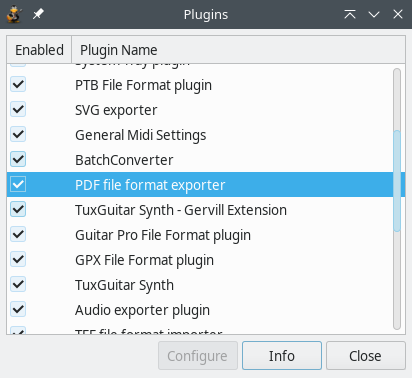
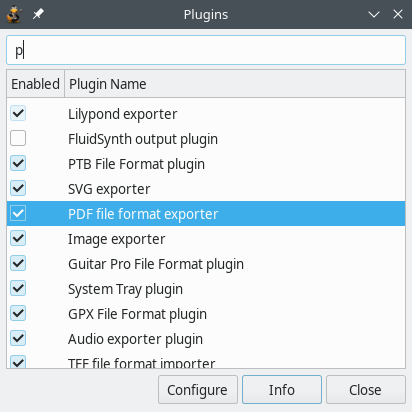
Update help and CHANGES

Changed region(s): [[0.0, 0.0, 1.0, 0.9894], [0.932, 0.2328, 0.9903, 0.2619], [0.0, 0.1455, 0.0291, 0.1746]]

diff --git a/desktop/TuxGuitar/share/help/detail_file_edit.html b/desktop/TuxGuitar/share/help/detail_file_edit.html
@@ -66,10 +66,10 @@
       <li><strong>File → Close</strong>: Closes the current tab.</li>
       <li><strong>File → Close Others</strong>: Closes all but the file in the active tab.</li>
       <li><strong>File → Close All</strong>: Closes all tabs and open a new file from the default or your custom template.</li>
-      <li><strong>File → Save</strong> (<strong>Ctrl+S</strong>): Saves the file in the active tab. If the song has never been saved yet, the <strong>Save As</strong> dialog opens.</li>
-      <li><strong>File → Save As</strong> (<strong>F12</strong>): Saves the file in the active tab to a new file.</li>
-      <li><strong>File → Import</strong>: Here you can import Tef or MIDI files into TuxGuitar.</li>
-      <li><strong>File → Export</strong>: Songs can be exported as SVG, Audio (WAF and others), MIDI, Lilypond, MusicXML, PDF, ASCII or old TuxGuitar formats.</li>
+      <li><strong>File → Save</strong> (<strong>Ctrl+S</strong>): Saves the file in the active tab in the latest TuxGuitar format. If the song has never been saved yet, the <strong>Save As</strong> dialog opens.</li>
+      <li><strong>File → Save As</strong> (<strong>F12</strong>): Saves the file in the active tab to a new file in the latest TuxGuitar format.</li>
+      <li><strong>File → Import</strong>: Here you can import MIDI files into TuxGuitar.</li>
+      <li><strong>File → Export</strong>: Songs can be exported as SVG, Audio (WAF and others), MIDI, Lilypond, MusicXML, PDF, ASCII, Guitar Pro or old TuxGuitar formats.</li>
       <li><strong>File → Print Preview</strong>: Opens a new window where you can see how the file would be printed.</li>
       <li><strong>File → Print</strong> (<strong>Ctrl+P</strong>): Prints the file. You can choose to only print one or all tracks, select a mesure range and various other options.</li>
       <li><strong>File → History</strong>: Here you can directly access up to 10 recently opened files.</li>

diff --git a/desktop/TuxGuitar/share/help/start_playing.html b/desktop/TuxGuitar/share/help/start_playing.html
@@ -51,7 +51,7 @@
   </div>
   <section>
     <h2 id="opening_an_existing_song">Opening an existing song</h2>
-    <p>TuxGuitar currently supports several file formats. Besides its internal <em><strong>.tg</strong></em> format (which is recommended), it can open and play all Guitar Pro formats (<strong><em>.gtp</em></strong>, <strong><em>.gp3</em></strong>, <strong><em>.gp4</em></strong>, <strong><em>.gp5</em></strong>, <strong><em>.gpx</em></strong>, <strong><em>.gp</em></strong>) and also the PowerTab format (<strong><em>.ptb</em></strong>).</p>
+    <p>TuxGuitar currently supports several file formats. Besides its internal <em><strong>.tg</strong></em> format (which is recommended), it can open and play all Guitar Pro formats (<strong><em>.gtp</em></strong>, <strong><em>.gp3</em></strong>, <strong><em>.gp4</em></strong>, <strong><em>.gp5</em></strong>, <strong><em>.gpx</em></strong>, <strong><em>.gp</em></strong>) and also the PowerTab (<strong><em>.ptb</em></strong>) and the TablEdit format (<strong><em>.tef</em></strong>).</p>
     <p>You can open a file through the <strong>File → Open</strong> dialog in TuxGuitar. If you installed TuxGuitar using our regular installation packages, the above file types are associated with TuxGuitar in your operating system, so you can open them directly by clicking on the file in the file manager.</p>
     <h2 id="playback">Playback</h2>
     <p>You can find the playback controls in the main menu bar, the main menu entry <strong>Player</strong> and in a separate window you can open in the menu <strong>View → Show Player</strong>.</p>

diff --git a/desktop/TuxGuitar/share/help/file_formats.html b/desktop/TuxGuitar/share/help/file_formats.html
@@ -55,16 +55,16 @@
     <h2 id="tablatures">Tablatures</h2>
     <table>
       <tr>
-        <td class="left"><strong>Guitar Pro 2</strong> (.gtp)</td><td>load</td>
+        <td class="left"><strong>Guitar Pro 1</strong> and <strong>2</strong> (.gtp)</td><td>load</td>
       </tr>
       <tr>
-        <td class="left"><strong>Guitar Pro 3</strong> (.gp3)</td><td>load and save</td>
+        <td class="left"><strong>Guitar Pro 3</strong> (.gp3)</td><td>load and export</td>
       </tr>
       <tr>
-        <td class="left"><strong>Guitar Pro 4</strong> (.gp4)</td><td>load and save</td>
+        <td class="left"><strong>Guitar Pro 4</strong> (.gp4)</td><td>load and export</td>
       </tr>
       <tr>
-        <td class="left"><strong>Guitar Pro 5</strong> (.gp5)</td><td>load and save</td>
+        <td class="left"><strong>Guitar Pro 5</strong> (.gp5)</td><td>load and export</td>
       </tr>
       <tr>
         <td class="left"><strong>Guitar Pro 6</strong> (.gpx)</td><td>load</td>
@@ -76,7 +76,7 @@
         <td class="left"><strong>PowerTab</strong> (.ptb)</td><td>load</td>
       </tr>
       <tr>
-        <td class="left"><strong>TableEdit</strong> (.tef)</td><td>import</td>
+        <td class="left"><strong>TablEdit</strong> (.tef)</td><td>load</td>
       </tr>
       <tr>
         <td class="left"><strong>LilyPond</strong> (.ly)</td><td>export</td>

diff --git a/desktop/TuxGuitar/share/help/tools_plugins.html b/desktop/TuxGuitar/share/help/tools_plugins.html
@@ -59,6 +59,7 @@
     </ol>
     <p>The plugins dialog is accessed through the <strong>Tools → Plugins</strong> menu. In the dialog you can enable or disable all installed plugins. Some of the plugins can also be configured with the "Configure" button. The "Info" button shows the version, author and description of the selected plugin.</p>
     <img src="images/plugins_dialog.png" />
+    <p>In the text area above the table you can search for a specific plugin.</p>
     <p>Plugins are single *.jar files. You can install any TuxGuitar plugin by simply copying it to the <em>$TUXGUITAR_DIR</em>\share\plugins\ folder and enabling it in the dialog.</p>
     <p>Maybe the easiest way to contribute to TuxGuitar functionality is to write a plugin, because it doesn’t need synchronization with the other TuxGuitar developers.</p>
   </section>
